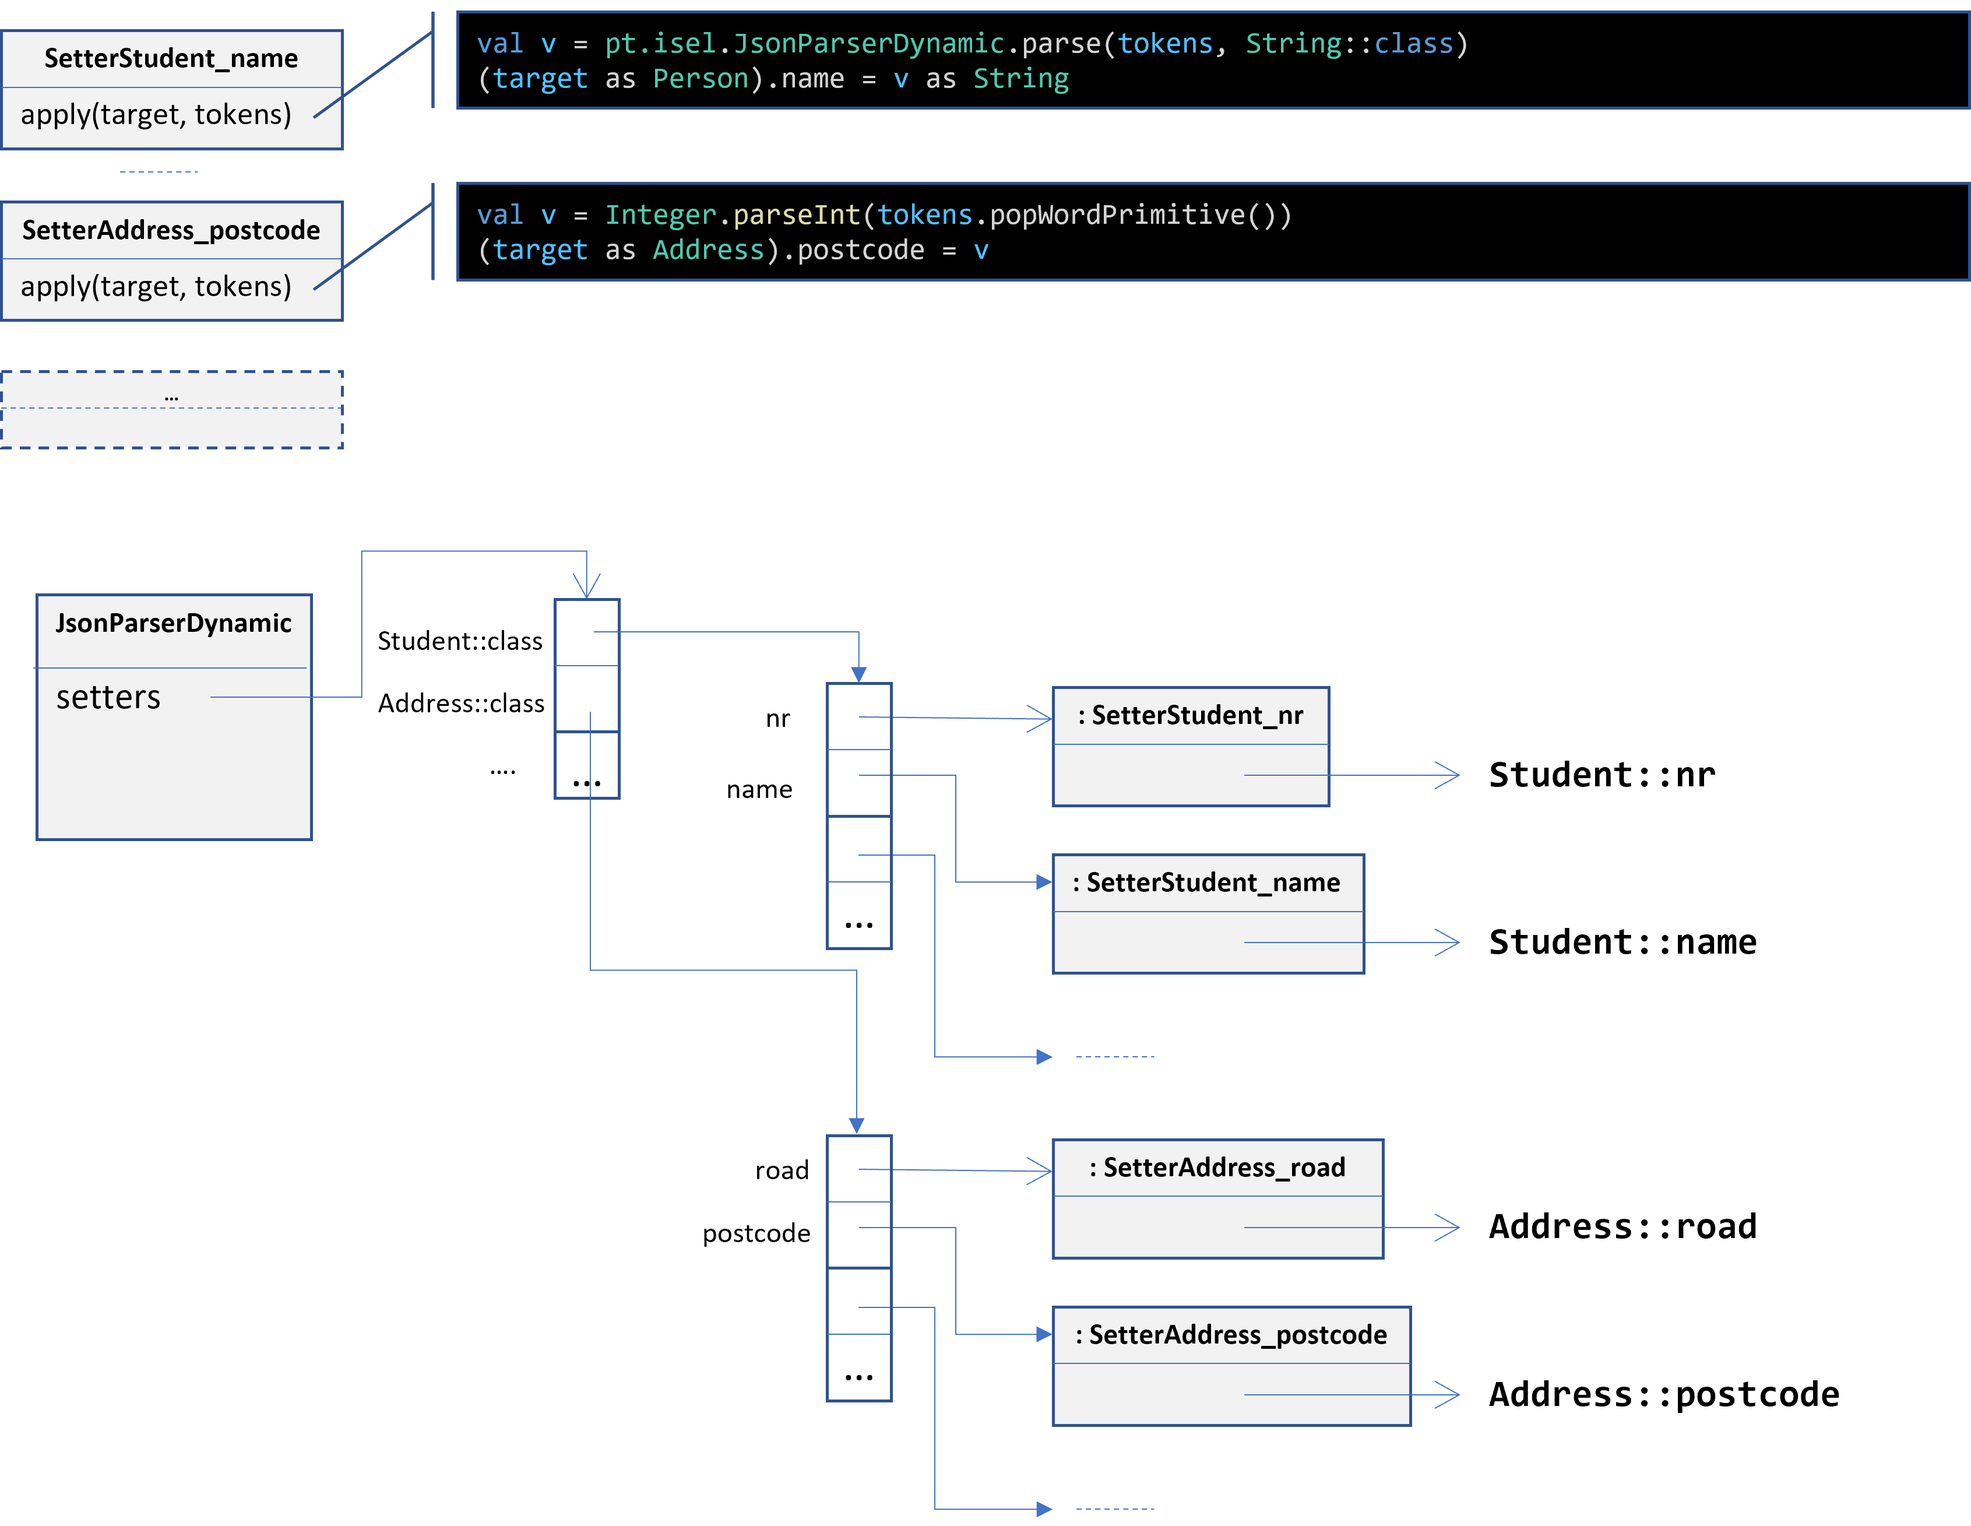
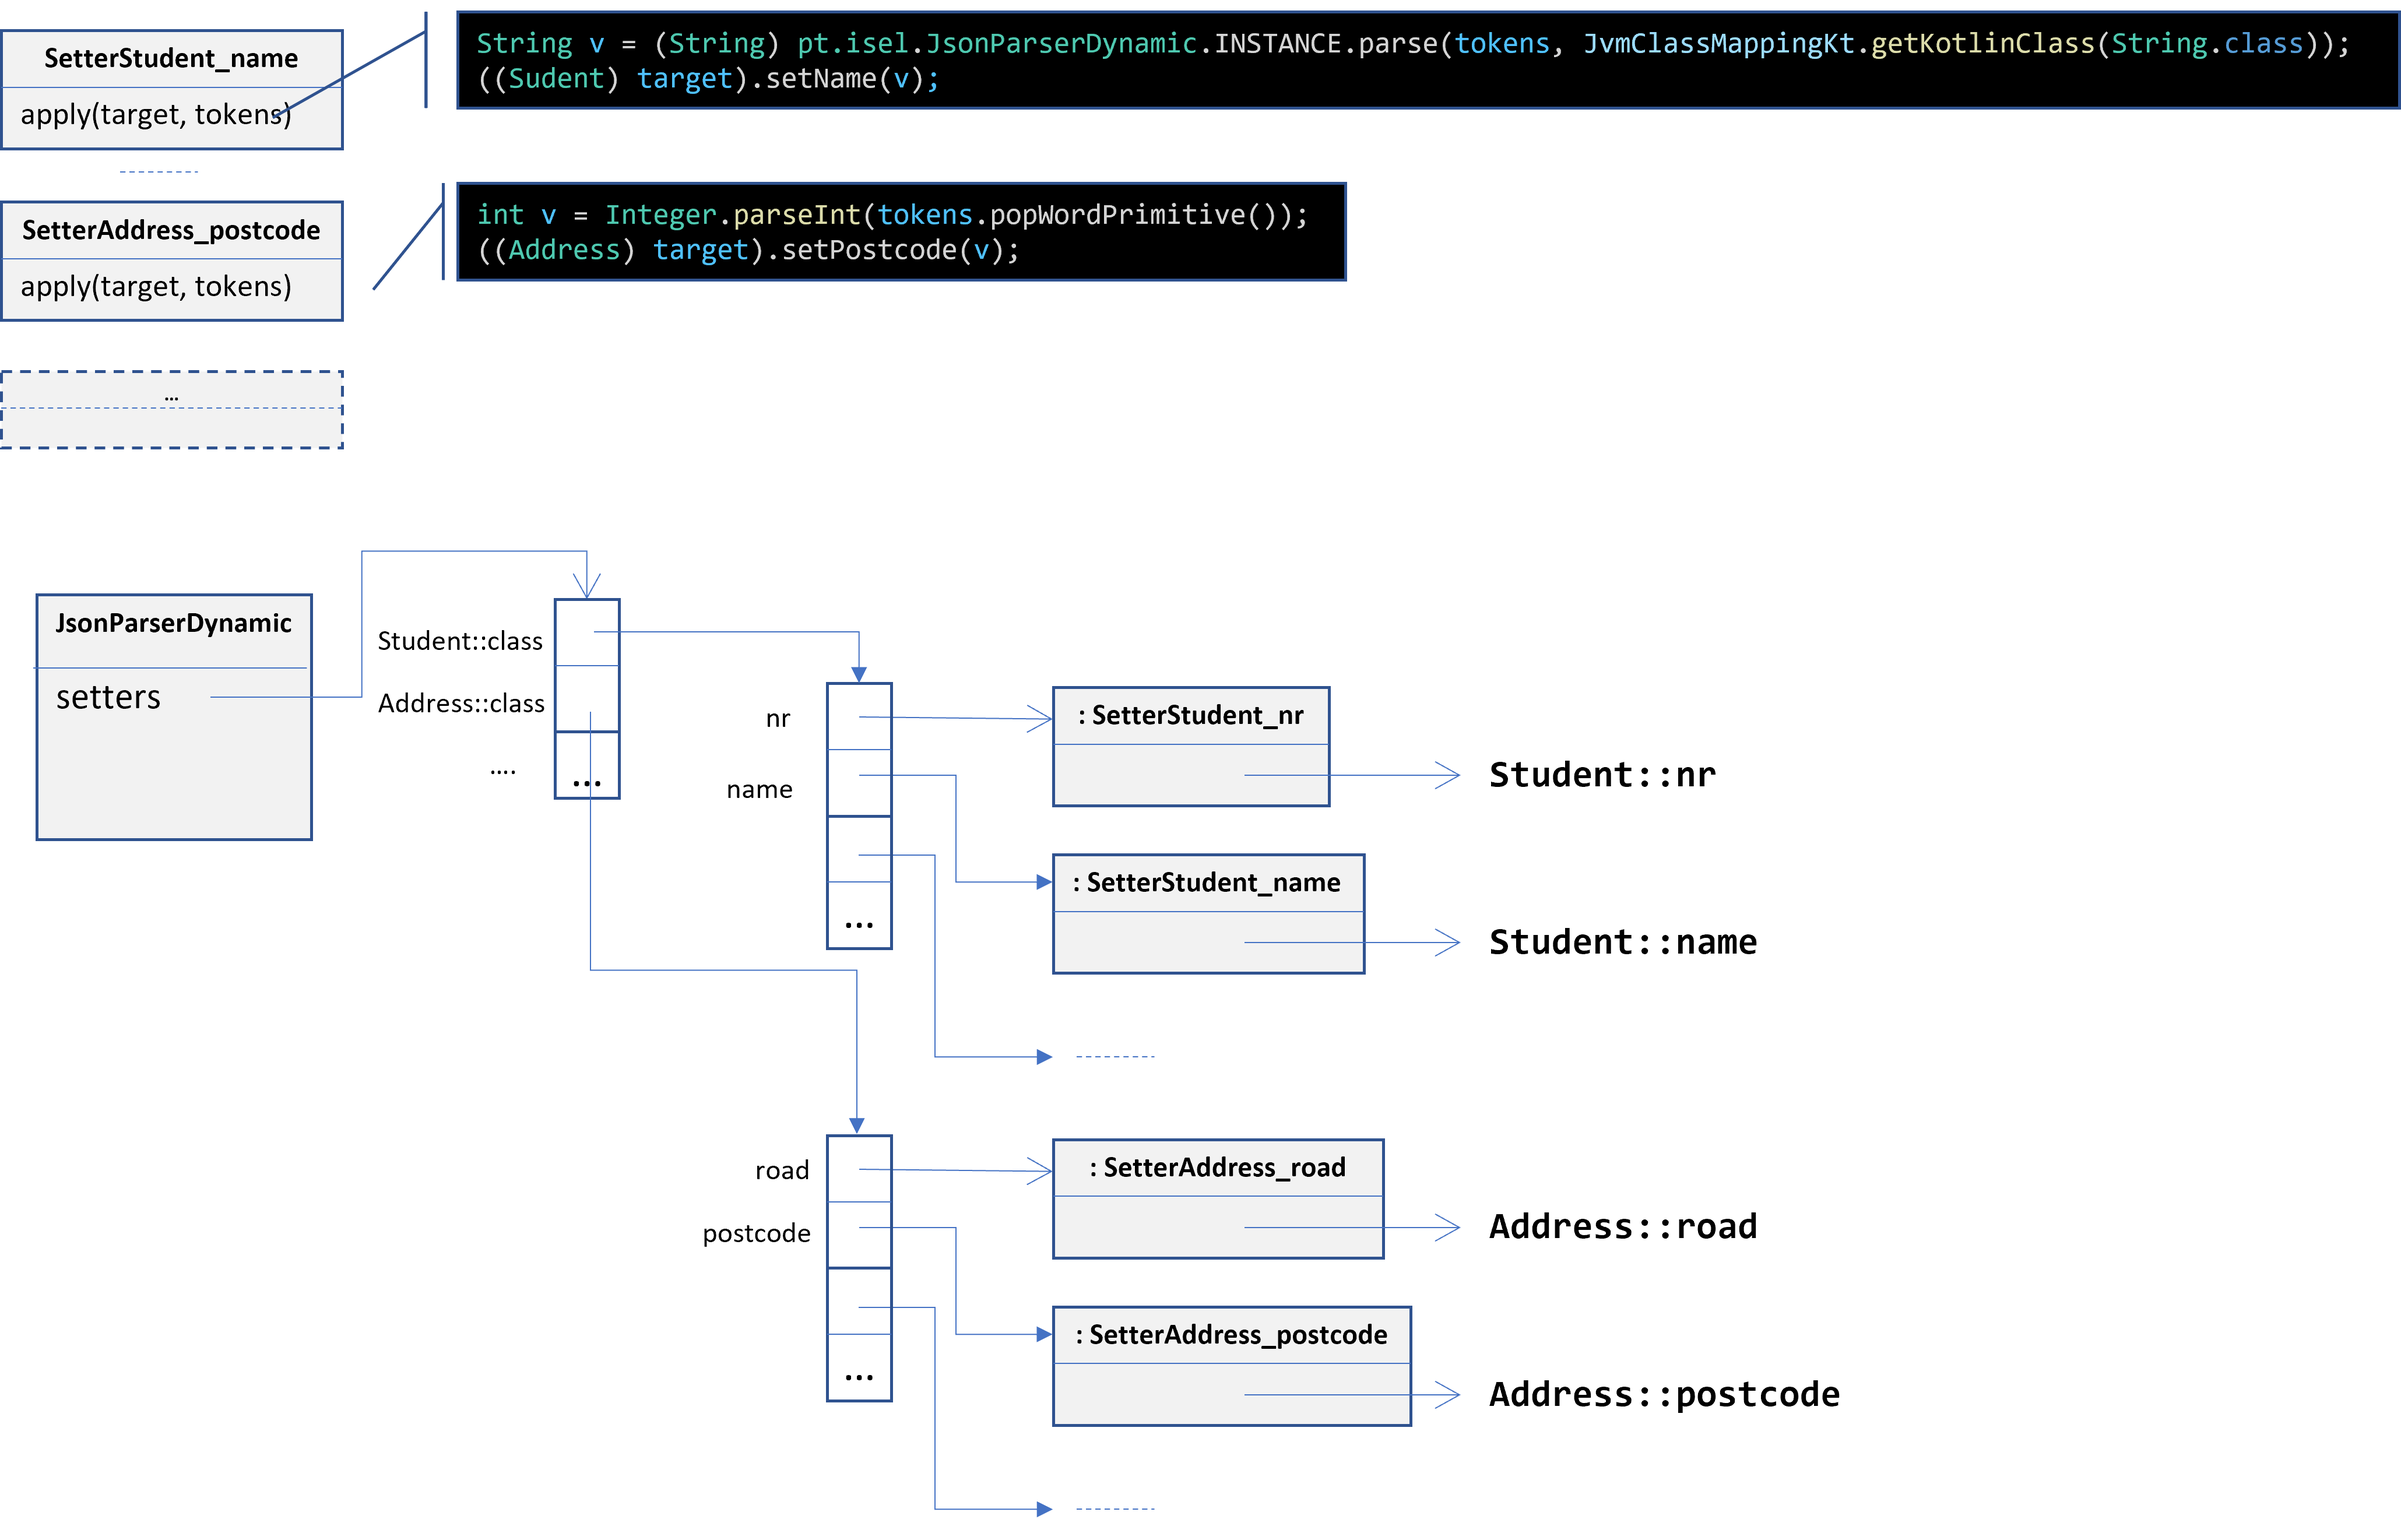
Assignment 2 for JavaPoet

diff --git a/assignments/jsonaif-part2-dynamic.md b/assignments/jsonaif-part2-dynamic.md
@@ -9,7 +9,7 @@ propriedades**. Note, que **continuará a ser usada reflexão na leitura** da
 _metadata_, deixando apenas de ser usada reflexão em operações como
 `<property>.setter.call(…)`.  A atribuição de valores a propriedades passa a ser
 realizada directamente com base em código gerado em tempo de execução
-através da API de ..... 
+através da API de [JavaPoet](https://github.com/square/javapoet).
 
 **NOTA** Ignore o caso de propriedades imutáveis iniciadas pelo construtor.
 
